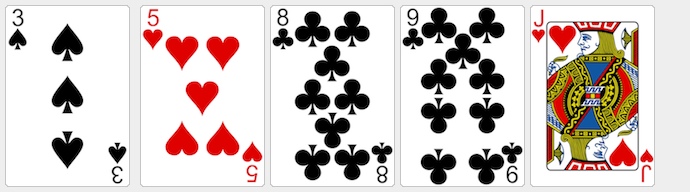
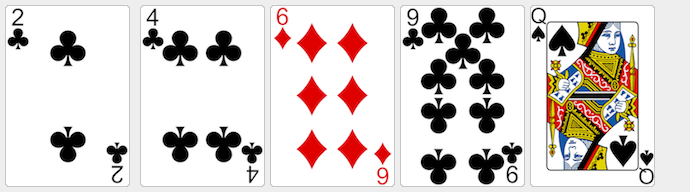
Outputting correct image May need some refinement but working as expected!

diff --git a/src/poker/HumanPlayer.java b/src/poker/HumanPlayer.java
@@ -117,10 +117,12 @@ public class HumanPlayer extends PokerPlayer {
 
     public void outputHand() {
         //TODO: Twitter code/Graphics image to tell the player what their hand is. Called after each deal/trade in RoundOfPoker.
-        twitter.postReply("Your Hand is " + hand.toString(), this);
+        createImage();
+        twitter.postImage(hand.card_hand, "Your hand is " + hand.toString(), this);
+        // twitter.postReply("Your Hand is " + hand.toString(), this); // can be removed once picture addition
 
     }
-    
+
     public BufferedImage createImage() {
         Picture picture = new Picture(hand.card_hand);
         BufferedImage image = picture.createPicture();

diff --git a/src/poker/RoundOfPoker.java b/src/poker/RoundOfPoker.java
@@ -253,7 +253,7 @@ public class RoundOfPoker {
         for(int i = GameOfPoker.HUMAN_INDEX + 1; i < live_players.size(); i++){
             tweet_message += live_players.get(i).getName() +" discards "+ live_players.get(i).discards +" cards\n";
         }
-twitter.postImage(live_players.get(0).hand, tweet_message, live_players.get(0));
+        twitter.postImage(live_players.get(0).hand.card_hand, tweet_message, live_players.get(0));
     }
 
     public int findWinner() {

diff --git a/src/poker/TwitterInterface.java b/src/poker/TwitterInterface.java
@@ -96,7 +96,8 @@ public class TwitterInterface  {
         }
     }
 
-    public void postImage(HandOfCards currentHand, String answer, PokerPlayer pokerPlayer) {
+    public void postImage(PlayingCard[] currentHand, String answer, PokerPlayer pokerPlayer) {
+
         HumanPlayer humanPlayer = (HumanPlayer) pokerPlayer;
         File file = new File("src/twitter_output/hand_picture.png");
         long replyId = humanPlayer.getTweetId();
